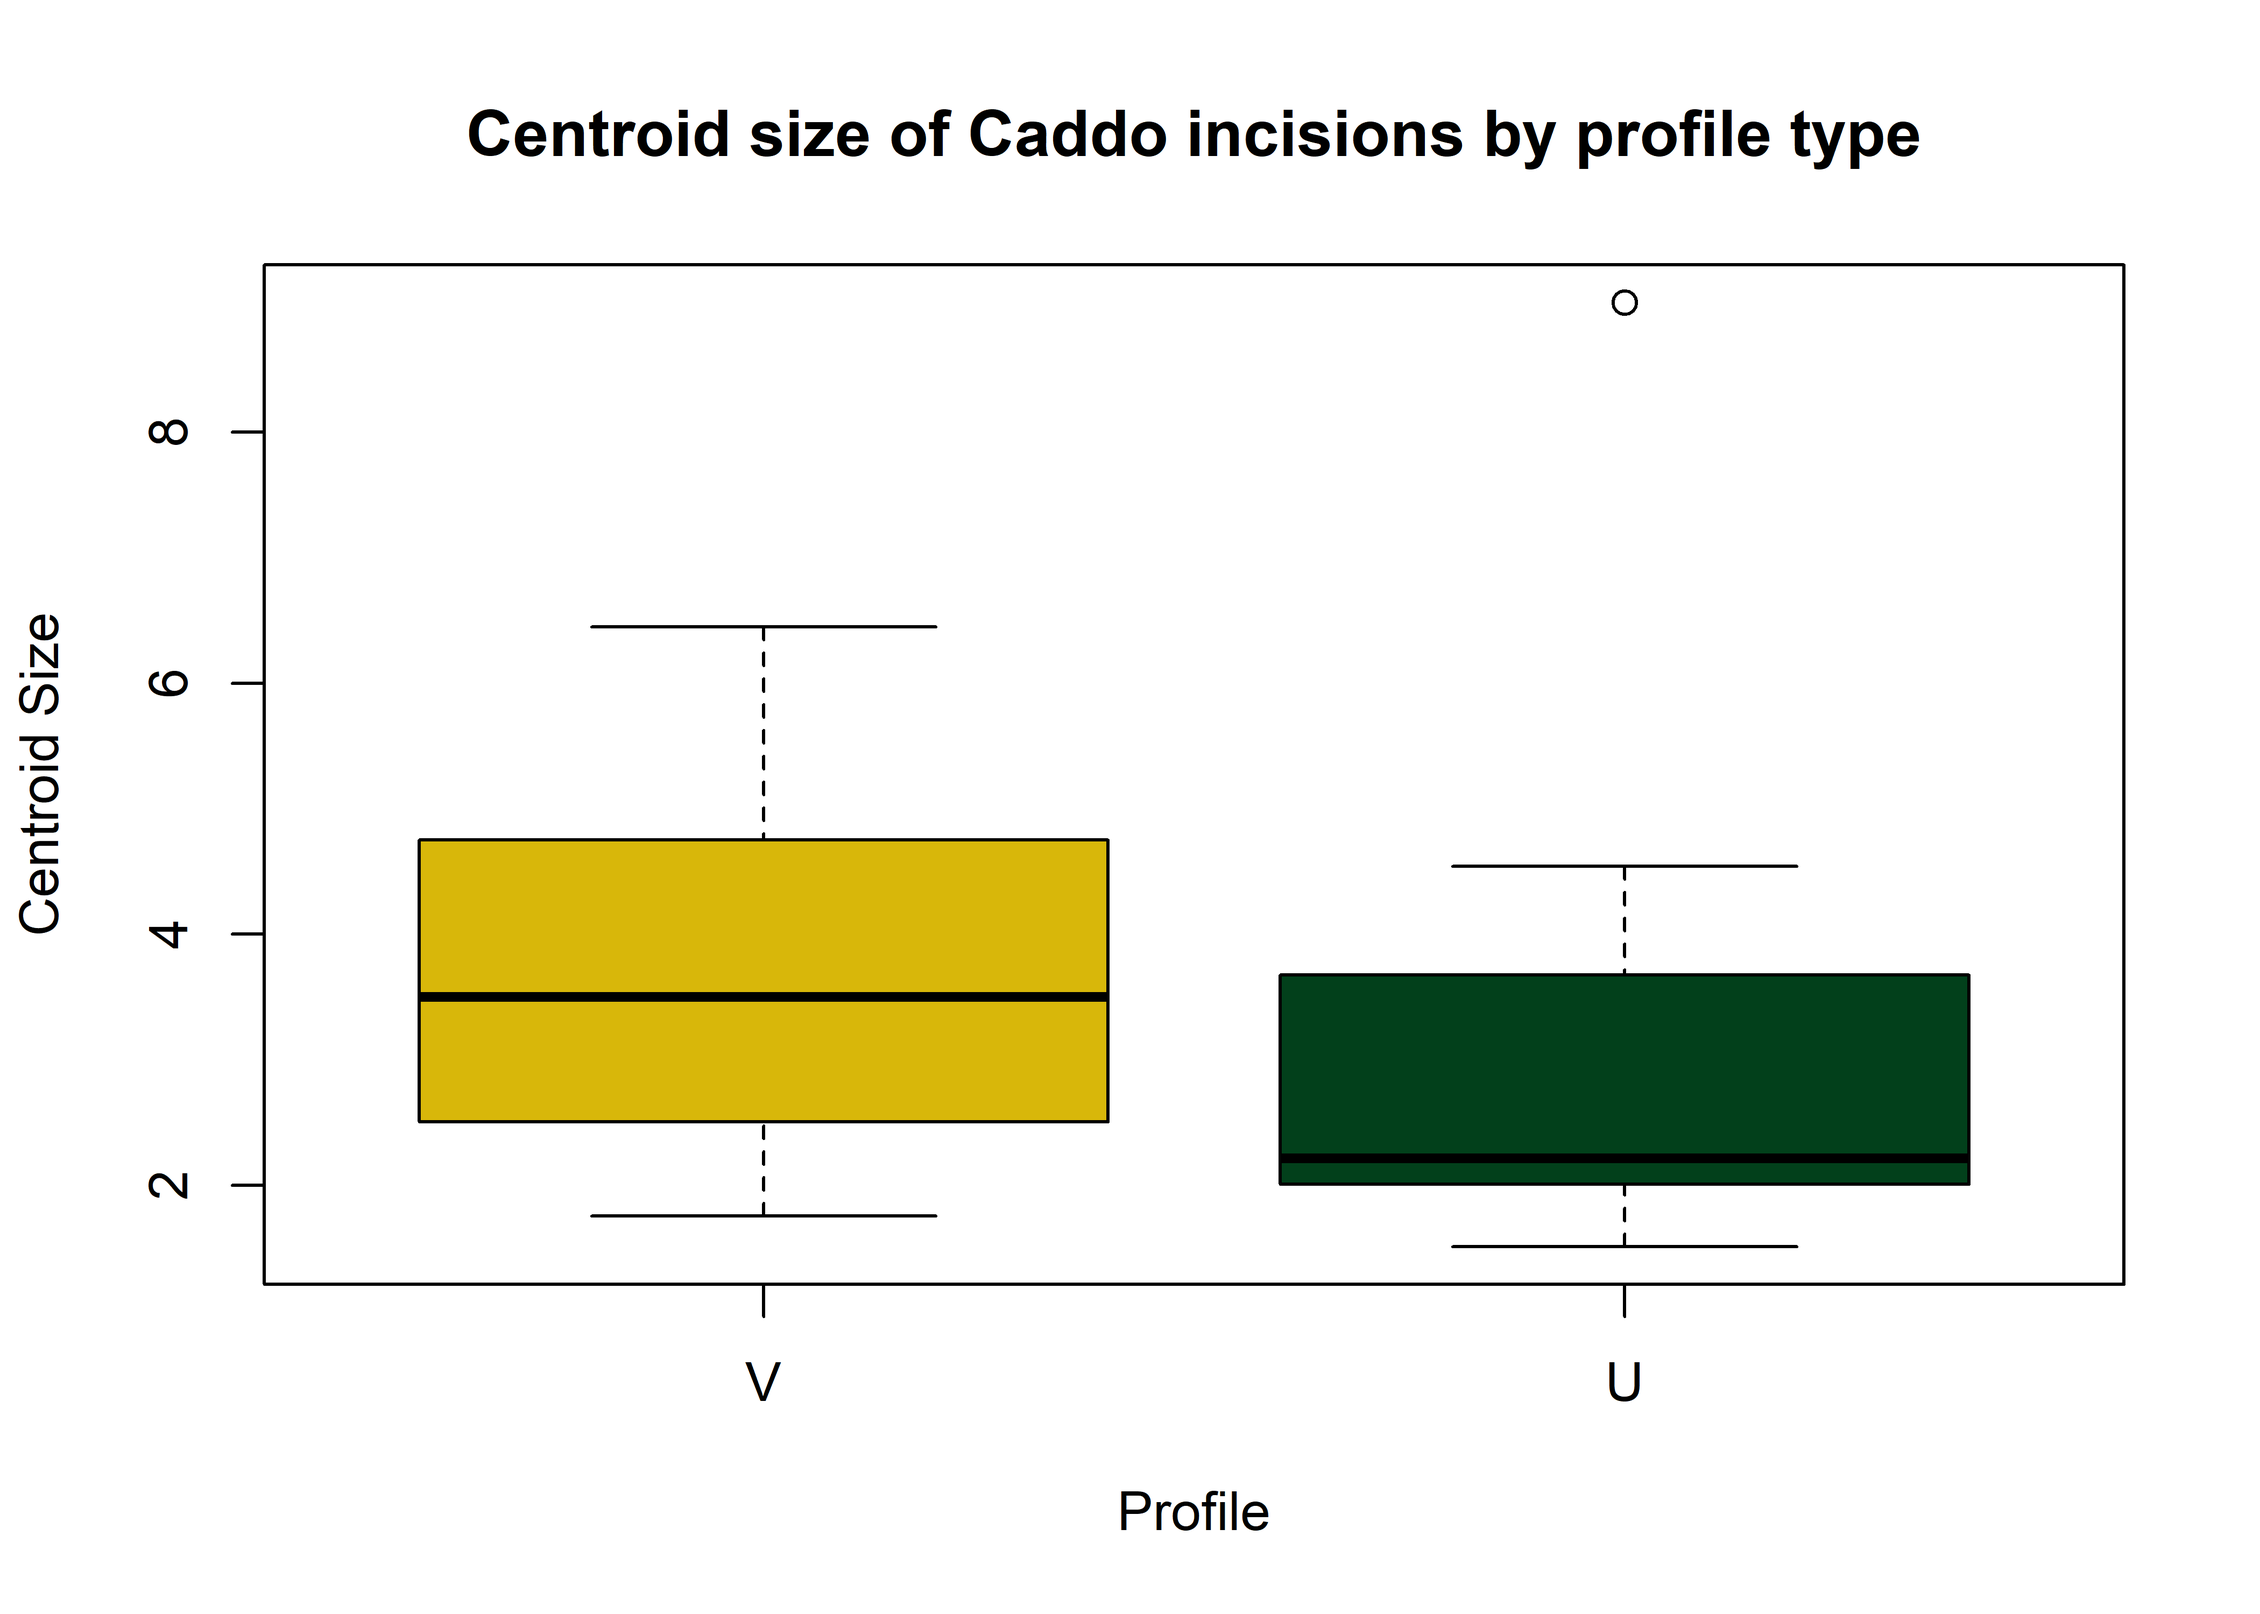
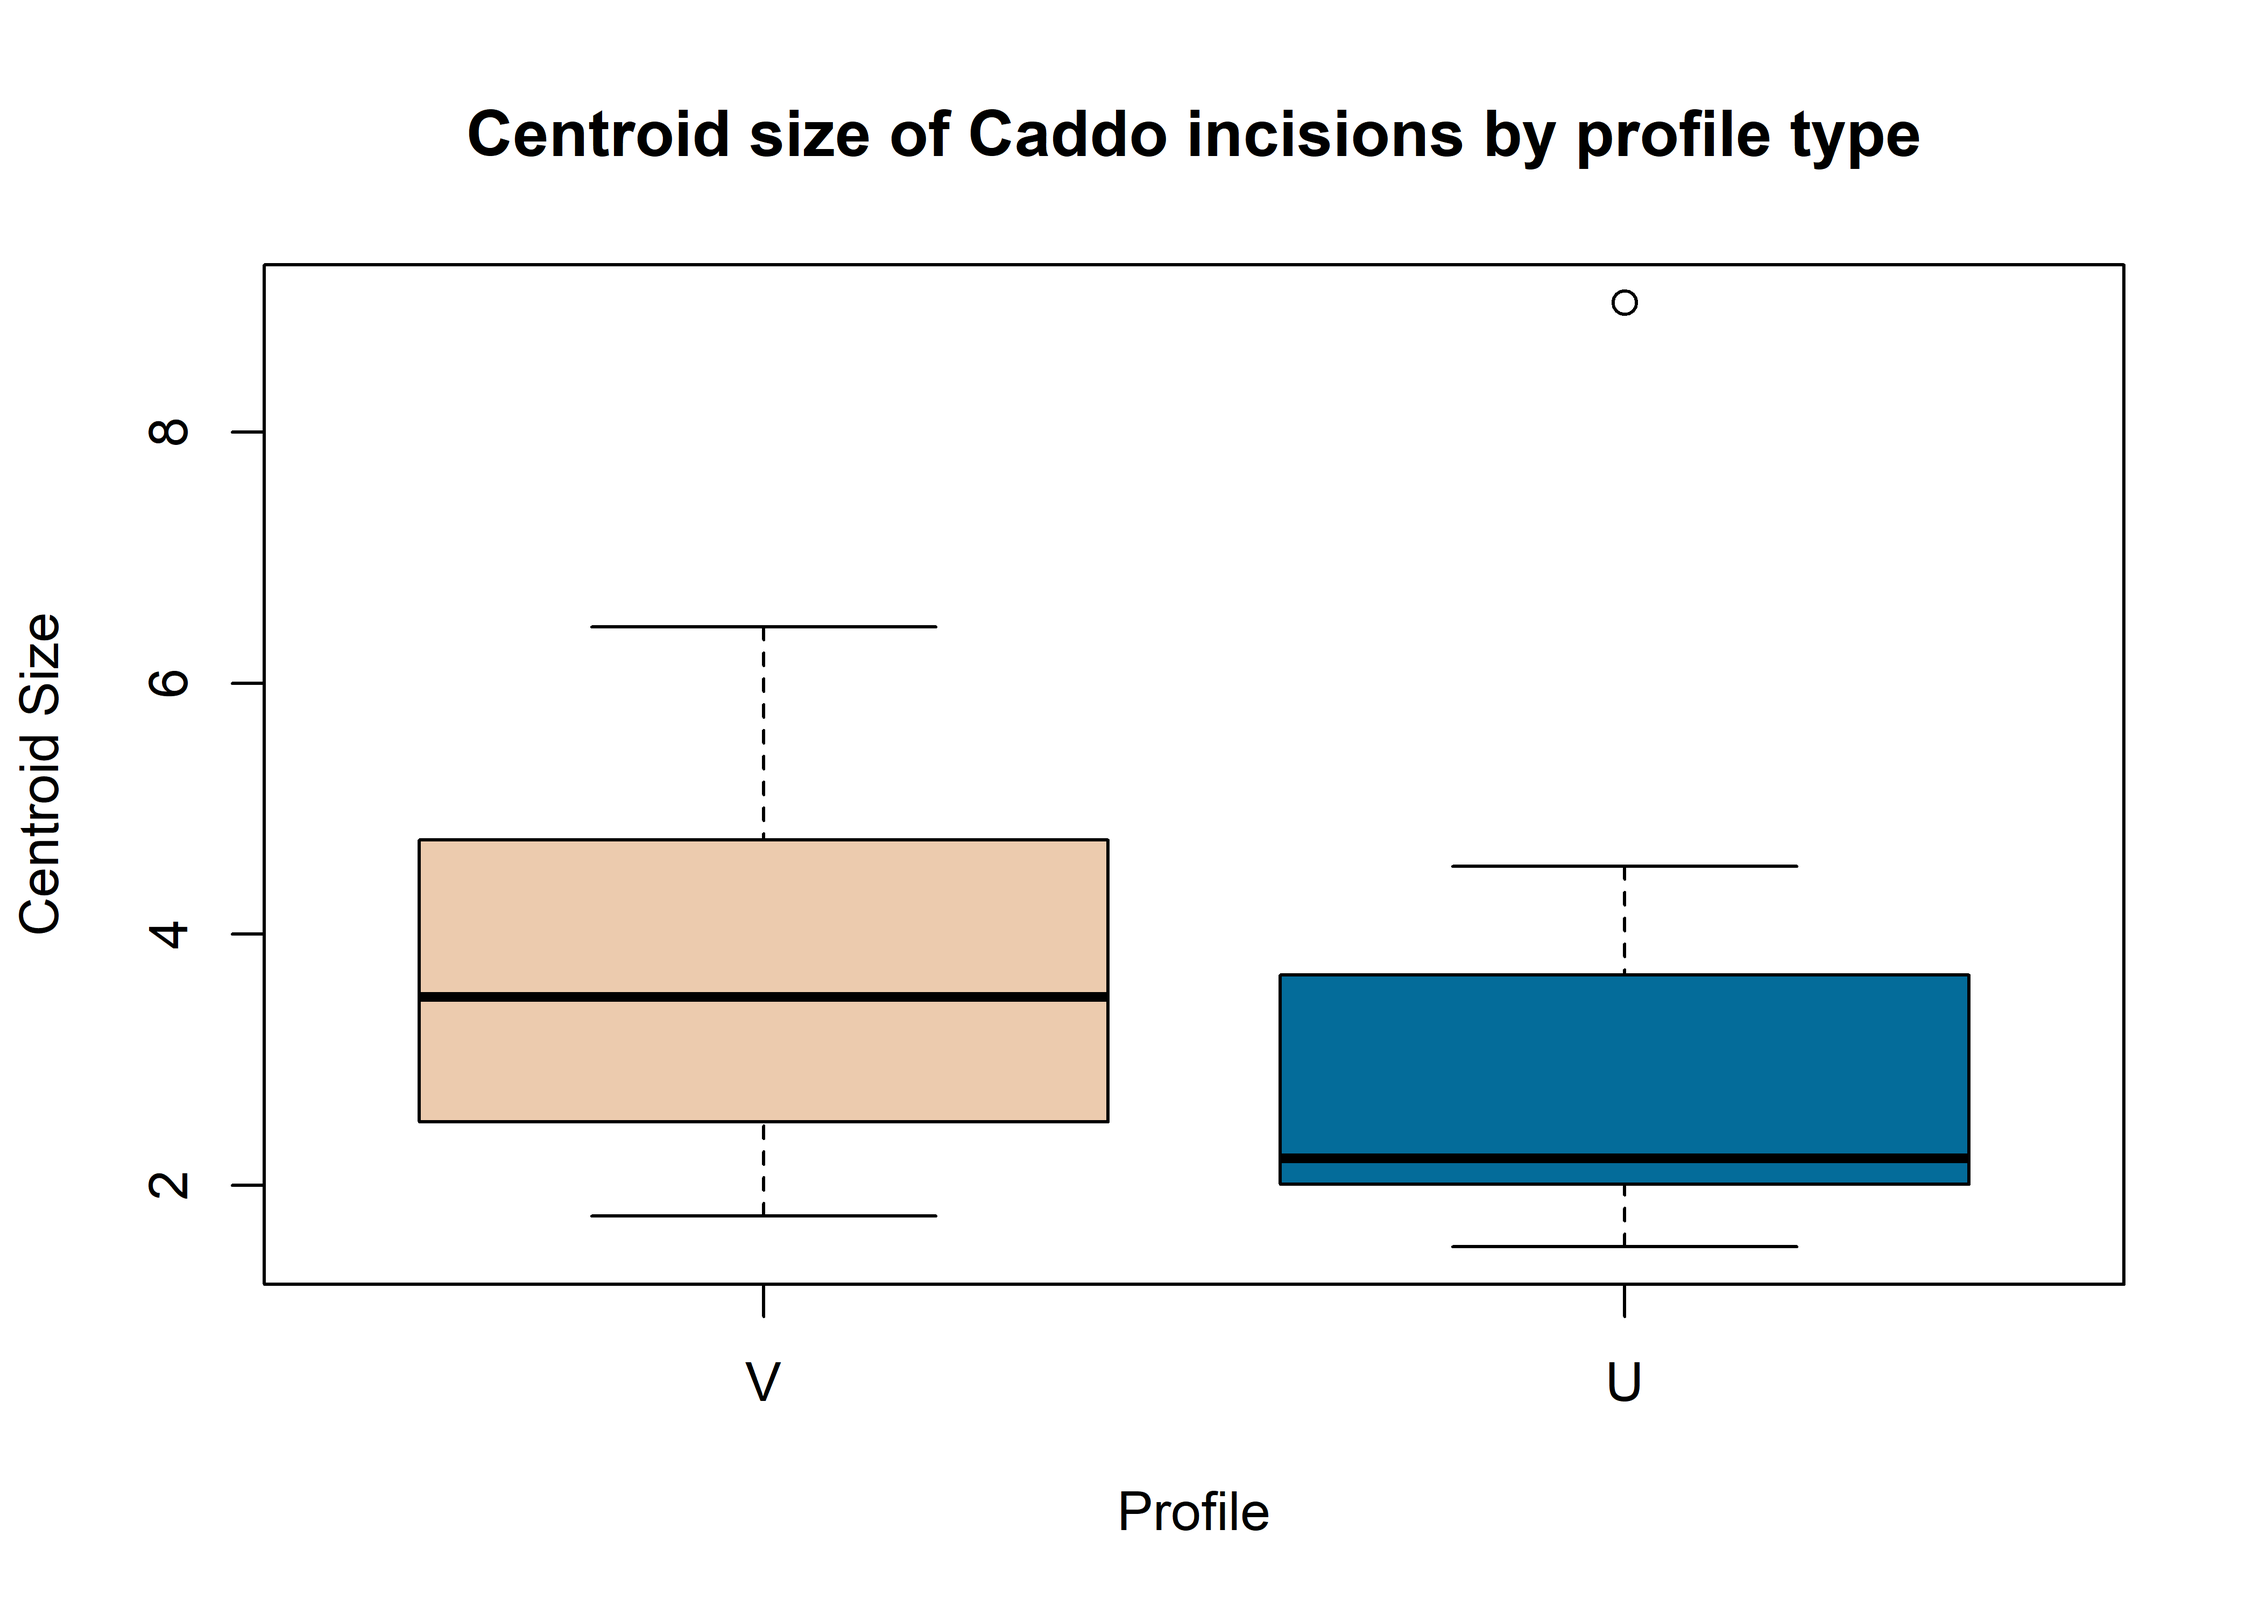
<edit incision>

Changed region(s): [[0.1871, 0.496, 0.499, 0.713], [0.5614, 0.589, 0.8733, 0.744]]

diff --git a/docs/archaeological-sample-analysis.html b/docs/archaeological-sample-analysis.html
@@ -395,7 +395,7 @@ This volume is in <b><a href="open.html#open">Open Review</a></b>. I want your f
 <a class="sourceLine" id="cb164-16" title="16">        <span class="dt">names =</span> <span class="kw">c</span>(<span class="st">&quot;V&quot;</span>,<span class="st">&quot;U&quot;</span>),</a>
 <a class="sourceLine" id="cb164-17" title="17">        <span class="dt">xlab =</span> <span class="st">&quot;Profile&quot;</span>,</a>
 <a class="sourceLine" id="cb164-18" title="18">        <span class="dt">ylab =</span> <span class="st">&quot;Centroid Size&quot;</span>,</a>
-<a class="sourceLine" id="cb164-19" title="19">        <span class="dt">col =</span> <span class="kw">wes_palette</span>(<span class="st">&quot;Cavalcanti1&quot;</span>),</a>
+<a class="sourceLine" id="cb164-19" title="19">        <span class="dt">col =</span> <span class="kw">wes_palette</span>(<span class="st">&quot;Darjeeling2&quot;</span>),</a>
 <a class="sourceLine" id="cb164-20" title="20">        )</a></code></pre></div>
 <p><img src="incision_files/figure-html/gpa-2.png" width="100%" /></p>
 <div class="sourceCode" id="cb165"><pre class="sourceCode r"><code class="sourceCode r"><a class="sourceLine" id="cb165-1" title="1">fig.cap =<span class="st"> &quot;Boxplot of incision profile types (inc).&quot;</span></a>
@@ -406,7 +406,7 @@ This volume is in <b><a href="open.html#open">Open Review</a></b>. I want your f
 <a class="sourceLine" id="cb165-6" title="6">        <span class="dt">names =</span> <span class="kw">c</span>(<span class="st">&quot;V-V&quot;</span>,<span class="st">&quot;V-A&quot;</span>,<span class="st">&quot;U-N&quot;</span>,<span class="st">&quot;U-B&quot;</span>),</a>
 <a class="sourceLine" id="cb165-7" title="7">        <span class="dt">xlab =</span> <span class="st">&quot;Profile&quot;</span>,</a>
 <a class="sourceLine" id="cb165-8" title="8">        <span class="dt">ylab =</span> <span class="st">&quot;Centroid Size&quot;</span>,</a>
-<a class="sourceLine" id="cb165-9" title="9">        <span class="dt">col =</span> <span class="kw">wes_palette</span>(<span class="st">&quot;Cavalcanti1&quot;</span>),</a>
+<a class="sourceLine" id="cb165-9" title="9">        <span class="dt">col =</span> <span class="kw">wes_palette</span>(<span class="st">&quot;Darjeeling2&quot;</span>),</a>
 <a class="sourceLine" id="cb165-10" title="10">        )</a></code></pre></div>
 <p><img src="incision_files/figure-html/gpa-3.png" width="100%" /></p>
 <div class="sourceCode" id="cb166"><pre class="sourceCode r"><code class="sourceCode r"><a class="sourceLine" id="cb166-1" title="1">fig.cap =<span class="st"> &quot;Boxplot of incision profile types (inc2).&quot;</span></a></code></pre></div>
@@ -480,24 +480,30 @@ This volume is in <b><a href="open.html#open">Open Review</a></b>. I want your f
 <div class="sourceCode" id="cb169"><pre class="sourceCode r"><code class="sourceCode r"><a class="sourceLine" id="cb169-1" title="1"><span class="co"># set plot parameters to plot by incision type</span></a>
 <a class="sourceLine" id="cb169-2" title="2">inc &lt;-<span class="st"> </span>qdata<span class="op">$</span>incision</a>
 <a class="sourceLine" id="cb169-3" title="3">pch.gps.inc &lt;-<span class="st"> </span><span class="kw">c</span>(<span class="dv">15</span>,<span class="dv">17</span>)[<span class="kw">as.factor</span>(inc)]</a>
-<a class="sourceLine" id="cb169-4" title="4">col.gps.inc &lt;-<span class="st"> </span><span class="kw">wes_palette</span>(<span class="st">&quot;Cavalcanti1&quot;</span>)[<span class="kw">as.factor</span>(inc)]</a>
-<a class="sourceLine" id="cb169-5" title="5"></a>
-<a class="sourceLine" id="cb169-6" title="6"><span class="co"># plotPCAbyINC</span></a>
-<a class="sourceLine" id="cb169-7" title="7">pca.plot1 &lt;-<span class="st"> </span><span class="kw">plot</span>(pca, <span class="dt">asp =</span> <span class="dv">1</span>,</a>
-<a class="sourceLine" id="cb169-8" title="8">                  <span class="dt">pch =</span> pch.gps.inc,</a>
-<a class="sourceLine" id="cb169-9" title="9">                  <span class="dt">col =</span> col.gps.inc)</a>
-<a class="sourceLine" id="cb169-10" title="10">                  <span class="kw">shapeHulls</span>(pca.plot2, <span class="dt">groups =</span> inc)</a></code></pre></div>
+<a class="sourceLine" id="cb169-4" title="4">col.gps.inc &lt;-<span class="st"> </span><span class="kw">wes_palette</span>(<span class="st">&quot;Darjeeling1&quot;</span>)[<span class="kw">as.factor</span>(inc)]</a>
+<a class="sourceLine" id="cb169-5" title="5">col.hull &lt;-<span class="st"> </span><span class="kw">wes_palette</span>(<span class="st">&quot;Darjeeling2&quot;</span>, <span class="dv">2</span>)</a>
+<a class="sourceLine" id="cb169-6" title="6"></a>
+<a class="sourceLine" id="cb169-7" title="7"><span class="co"># plotPCAbyINC</span></a>
+<a class="sourceLine" id="cb169-8" title="8">pca.plot1 &lt;-<span class="st"> </span><span class="kw">plot</span>(pca, <span class="dt">asp =</span> <span class="dv">1</span>,</a>
+<a class="sourceLine" id="cb169-9" title="9">                  <span class="dt">pch =</span> pch.gps.inc,</a>
+<a class="sourceLine" id="cb169-10" title="10">                  <span class="dt">col =</span> col.gps.inc)</a>
+<a class="sourceLine" id="cb169-11" title="11">                  <span class="kw">shapeHulls</span>(pca.plot2, </a>
+<a class="sourceLine" id="cb169-12" title="12">                             <span class="dt">groups =</span> inc,</a>
+<a class="sourceLine" id="cb169-13" title="13">                             <span class="dt">group.cols =</span> col.hull)</a></code></pre></div>
 <p><img src="incision_files/figure-html/pca-1.png" width="100%" /></p>
 <div class="sourceCode" id="cb170"><pre class="sourceCode r"><code class="sourceCode r"><a class="sourceLine" id="cb170-1" title="1"><span class="co"># set plot parameters to plot by incision type (inc2)</span></a>
 <a class="sourceLine" id="cb170-2" title="2">inc2 &lt;-<span class="st"> </span>qdata<span class="op">$</span>inc2</a>
 <a class="sourceLine" id="cb170-3" title="3">pch.gps.inc2 &lt;-<span class="st"> </span><span class="kw">c</span>(<span class="dv">15</span>,<span class="dv">17</span><span class="op">:</span><span class="dv">19</span>)[<span class="kw">as.factor</span>(inc2)]</a>
-<a class="sourceLine" id="cb170-4" title="4">col.gps.inc2 &lt;-<span class="st"> </span><span class="kw">wes_palette</span>(<span class="st">&quot;Cavalcanti1&quot;</span>)[<span class="kw">as.factor</span>(inc2)]</a>
-<a class="sourceLine" id="cb170-5" title="5"></a>
-<a class="sourceLine" id="cb170-6" title="6"><span class="co"># plotPCAbyINC</span></a>
-<a class="sourceLine" id="cb170-7" title="7">pca.plot2 &lt;-<span class="st"> </span><span class="kw">plot</span>(pca, <span class="dt">asp =</span> <span class="dv">1</span>,</a>
-<a class="sourceLine" id="cb170-8" title="8">                  <span class="dt">pch =</span> pch.gps.inc2,</a>
-<a class="sourceLine" id="cb170-9" title="9">                  <span class="dt">col =</span> col.gps.inc2)</a>
-<a class="sourceLine" id="cb170-10" title="10">                  <span class="kw">shapeHulls</span>(pca.plot2, <span class="dt">groups =</span> inc2)</a></code></pre></div>
+<a class="sourceLine" id="cb170-4" title="4">col.gps.inc2 &lt;-<span class="st"> </span><span class="kw">wes_palette</span>(<span class="st">&quot;Darjeeling1&quot;</span>)[<span class="kw">as.factor</span>(inc2)]</a>
+<a class="sourceLine" id="cb170-5" title="5">col.hull2 &lt;-<span class="st"> </span><span class="kw">wes_palette</span>(<span class="st">&quot;Darjeeling2&quot;</span>, <span class="dv">4</span>)</a>
+<a class="sourceLine" id="cb170-6" title="6"></a>
+<a class="sourceLine" id="cb170-7" title="7"><span class="co"># plotPCAbyINC</span></a>
+<a class="sourceLine" id="cb170-8" title="8">pca.plot2 &lt;-<span class="st"> </span><span class="kw">plot</span>(pca, <span class="dt">asp =</span> <span class="dv">1</span>,</a>
+<a class="sourceLine" id="cb170-9" title="9">                  <span class="dt">pch =</span> pch.gps.inc2,</a>
+<a class="sourceLine" id="cb170-10" title="10">                  <span class="dt">col =</span> col.gps.inc2)</a>
+<a class="sourceLine" id="cb170-11" title="11">                  <span class="kw">shapeHulls</span>(pca.plot2, </a>
+<a class="sourceLine" id="cb170-12" title="12">                             <span class="dt">groups =</span> inc2,</a>
+<a class="sourceLine" id="cb170-13" title="13">                             <span class="dt">group.cols =</span> col.hull2)</a></code></pre></div>
 <p><img src="incision_files/figure-html/pca-2.png" width="100%" /></p>
 </div>
 <div id="define-models-1" class="section level2">
